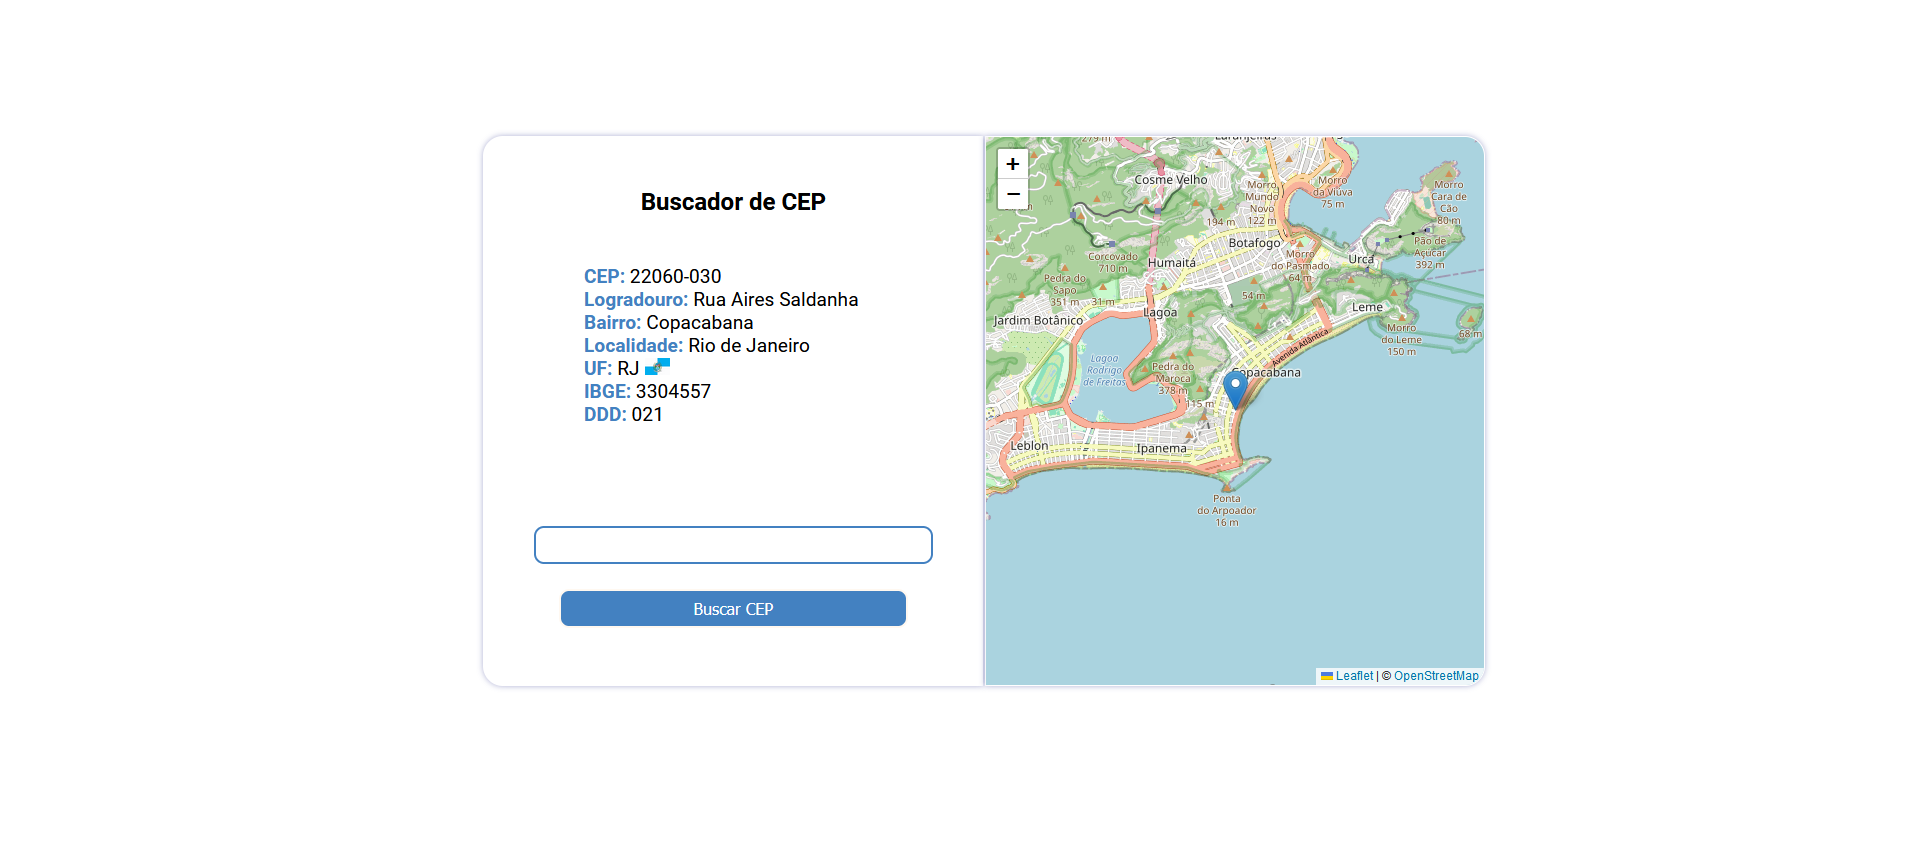
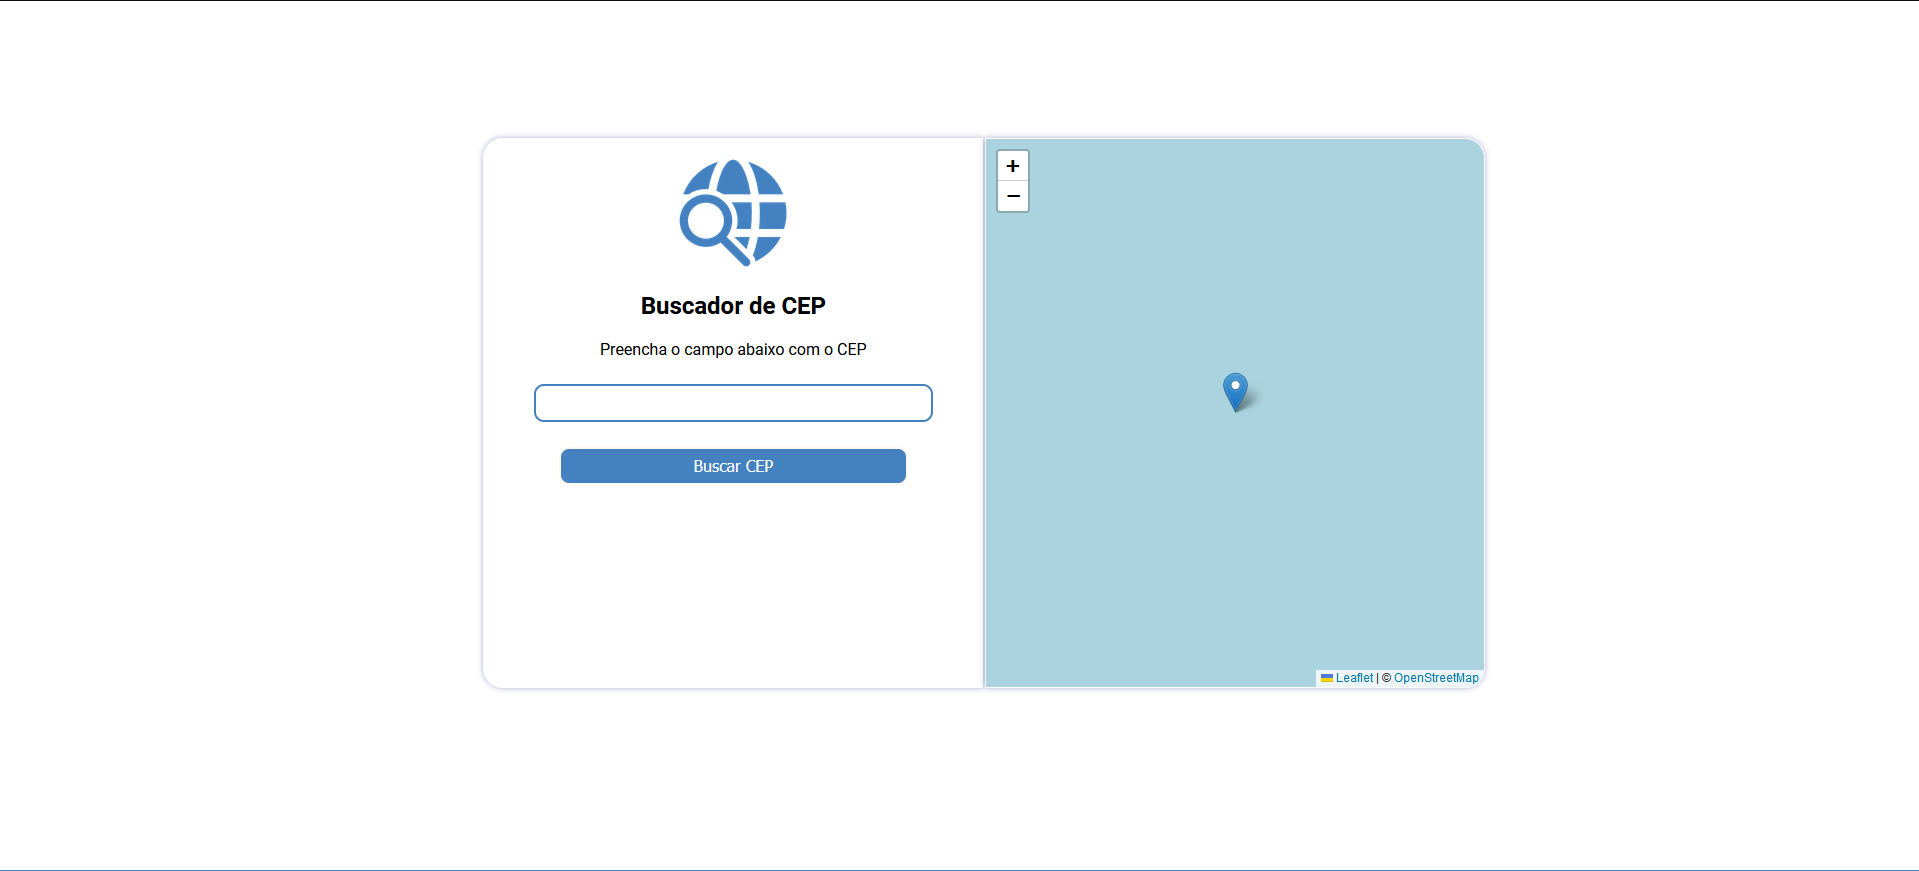
.

diff --git a/script.js b/script.js
@@ -1,5 +1,14 @@
+var map = L.map("map", {center: [0, 0], zoom: 13});
+var marker = L.marker([0, 0]).addTo(map);
+
+L.tileLayer('https://tile.openstreetmap.org/{z}/{x}/{y}.png', {
+    maxZoom: 19,
+    attribution: '&copy; <a href="http://www.openstreetmap.org/copyright">OpenStreetMap</a>'
+}).addTo(map);
+
 // API request
 function getCEP() {
+
     // Get hint and cep data HTML elements
     var helpText = document.getElementById("help");
     var cepData = document.getElementById("cep-data");
@@ -22,6 +31,7 @@ function getCEP() {
             window.alert("Erro ao localizar CEP digitado.");
             return;
         }
+
         /// state flag
         const bandeira = document.createElement("img");
         bandeira.src = `assets/bandeiras/${data.uf}.png`;
@@ -44,25 +54,16 @@ function getCEP() {
         cepData.style.display = "block";
 
         // Map latitude and longitude function
+        const cepEncode = encodeURI(data.cep);
         const logradouroEncode = encodeURIComponent(data.logradouro);
-        const bairroEncode = encodeURIComponent(data.bairro);
-        const localEncode = encodeURIComponent(data.localidade);
-        const ufEncode = encodeURIComponent(data.uf);
-        const url = `https://nominatim.openstreetmap.org/search?q=${logradouroEncode}+${bairroEncode}+${localEncode}+${ufEncode}&format=json&polygon=1&addressdetails=1`;
-        console.log(url)
+        const url = `https://nominatim.openstreetmap.org/search?q=${cepEncode}+${logradouroEncode}&format=json&polygon=1&addressdetails=1`;
         fetch(url)
         .then(response => response.json())
         .then(data => {
 
-            // Map with current CEP location
-            var map = L.map('map').setView([data[0].lat, data[0].lon], 13);
-            L.tileLayer('https://tile.openstreetmap.org/{z}/{x}/{y}.png', {
-                maxZoom: 19,
-                attribution: '&copy; <a href="http://www.openstreetmap.org/copyright">OpenStreetMap</a>'
-            }).addTo(map);
-            
-            // Map marker
-            var marker = L.marker([data[0].lat, data[0].lon]).addTo(map);
+            // Map and marker with current CEP location
+            map.panTo(new L.LatLng(data[0].lat, data[0].lon));
+            marker.setLatLng([data[0].lat, data[0].lon]).update();
         })
     })
     .catch(error => {

diff --git a/style.css b/style.css
@@ -68,9 +68,14 @@ footer {
     margin: 15% 0% 0% 53%;
 }
 
+.logo {
+    padding-top: 2%;
+    width: 128px;
+}
+
 .title {
-    padding-top: 10%;
-    margin-bottom: 5%;
+    padding-top: 2%;
+    margin-bottom: 2%;
 }
 
 #help {
@@ -79,7 +84,7 @@ footer {
 
 #cep-data {
     display: none;
-    margin: 10% 0% 0% 20%;
+    margin: 5% 0% 0% 20%;
     p {
         text-align: left;
         font-size: 1.2rem;
@@ -92,7 +97,7 @@ footer {
     height: 7%;
     border: 2px solid var(--color3);
     border-radius: 10px;
-    margin-top: 20%;
+    margin-top: 5%;
     text-indent: 10px;
     font-size: 15px;
 }
@@ -108,10 +113,6 @@ button {
     margin-top: 5%;
     cursor: pointer;
     transition: 0.1s ease-in-out;
-}
-
-button:hover {
-    box-shadow: 0 5px 5px 0 var(--color3);
 }
 
 mark.blue {

diff --git a/index.html b/index.html
@@ -13,6 +13,7 @@
     <script src="https://unpkg.com/leaflet@1.9.4/dist/leaflet.js"
     integrity="sha256-20nQCchB9co0qIjJZRGuk2/Z9VM+kNiyxNV1lvTlZBo="
     crossorigin=""></script>
+    <link rel="shortcut icon" href="assets/icon/icon.ico" type="image/x-icon">
     <link rel="stylesheet" href="style.css">
     <title>Buscador de CEP</title>
 </head>
@@ -22,6 +23,7 @@
             <div class="container">
                 <!-- CEP data container -->
                 <div class="form-container">
+                    <img src="assets/icon/icon.png" alt="logo do site" class="logo">
                     <h1 class="title">Buscador de CEP</h1>
                     <p id="help">Preencha o campo abaixo com o CEP</p>
                     <div id="cep-data">
